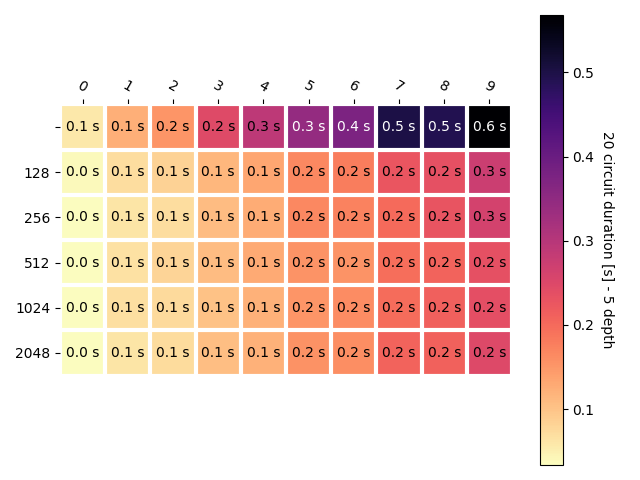
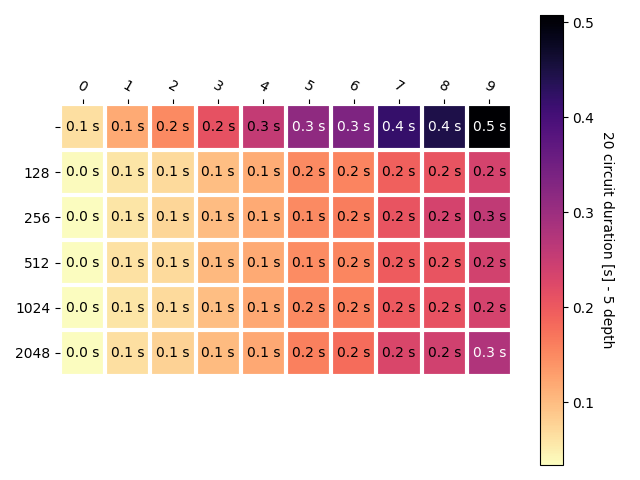
pennylane depth runtime experiment

diff --git a/pennylane-test_duration_depth.py b/pennylane-test_duration_depth.py
@@ -12,34 +12,32 @@ evals = 20
 
 # -------------------------------------------------------------------------------------
 
-qubits = 10
-depth = 5
+qubits = 2
+depth = 10
 
-duration_matrix = np.zeros((len(shots_list), qubits))
+duration_matrix = np.zeros((len(shots_list), depth))
 
 for i, shots in enumerate(shots_list):
-    for j in range(1,qubits+1):
-        dev = qml.device("default.qubit", wires=j, shots=shots)
+    for j in range(1,depth+1):
+        dev = qml.device("default.qubit", wires=2, shots=shots)
 
-       
         @qml.qnode(dev)        
         def circuit(w):
-            qml.RandomLayers(weights=w, wires=range(j))
-            return [qml.expval(qml.PauliZ(i)) for i in range(j)]
-        
-        weights = np.random.rand(depth, j)
+            qml.RandomLayers(weights=w, wires=range(2))
+            return [qml.expval(qml.PauliZ(i)) for i in range(2)]
+
+        weights = np.random.rand(j, qubits)
         start_time = time.time()
-        for _ in range(evals):    
+        for _ in range(evals):
             result = circuit(weights)
         duration_matrix[i,j-1] = time.time() - start_time
-        
         # print(f"Execution of {evals} circuits took {duration} seconds.")
-    print(f"Progress: {i*qubits}/{len(shots_list)*qubits}")
+    print(f"Progress: {i*depth}/{len(shots_list)*depth}")
 
 
 fig, ax = plt.subplots()
-im, cbar = plot_util.heatmap(duration_matrix, shots_list, [d for d in range(qubits)], ax=ax,
-                   cmap="magma_r", cbarlabel=f"{evals} circuit duration [s] - {depth} depth")
+im, cbar = plot_util.heatmap(duration_matrix, shots_list, [d for d in range(depth)], ax=ax,
+                   cmap="magma_r", cbarlabel=f"{evals} circuit duration [s] - {qubits} qubits")
 texts = plot_util.annotate_heatmap(im, valfmt="{x:.1f} s")
 fig.tight_layout()
-plt.savefig(f"plots/pennylane_duration_qubits_{qubits}_{depth}.png")
+plt.savefig(f"plots/pennylane_duration_depth_{qubits}_{depth}.png")
